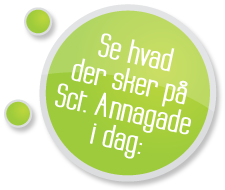
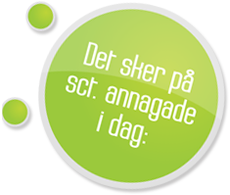
Styling of calendar and added custom markup

Changed region(s): [[0.0, 0.0263, 0.9956, 0.9737], [0.0933, 0.0, 0.2489, 0.2105], [0.2489, 0.7105, 0.28, 0.7632]]

diff --git a/sites/all/themes/sctannagade/css/kalender.css b/sites/all/themes/sctannagade/css/kalender.css
@@ -96,25 +96,31 @@ h3 .date-display-separator
 	font-size: 13px;
 	color: #FFF;
 	font-weight: bold;
+	position: relative;
 }
 
-.panel-display .panel-pane .view-Kalender .view-header .current-date
+.panel-display .panel-pane .view-Kalender .view-header .current-date a,
+.panel-display .panel-pane .view-Kalender .view-header .current-date a:hover
+{
+	color: #fff;
+}
+
+.panel-display .panel-pane .view-Kalender .view-header .splash
 {
 	background:transparent url(../images/today_big.png) no-repeat scroll right top;
-	padding-left: 15px;
-	margin-left: -15px;
 	display: block;
 	position: absolute;
-	z-index: 1;
-	height: 225px;
-	width: 550px;
+	height: 195px;
+	width: 230px;
+	top: 4px;
+	right: 5px;
 }
 
 .panel-display .panel-pane .view-Kalender .view-header .kugler
 {
 	background: url("../images/kugler.png") no-repeat scroll left center transparent;
 	margin-top: 2px;
-	margin-left: 75px;
+	margin-left: 5px;
 	padding-top: 6px;
 	padding-left: 7px;
 	position: absolute;

diff --git a/sites/all/themes/sctannagade/css/design.css b/sites/all/themes/sctannagade/css/design.css
@@ -47,8 +47,8 @@
 
 #block-views-Statement-block_1 .content .view .view-content .views-row .views-field-title
 {
-	height: 50px;
-	padding: 5px 20px 0px 10px;
+	height: 75px;
+	padding: 10px 20px 0px 10px;
 	background: #fff url(../images/back-statement-bottom.png) left top no-repeat;
 	text-align: right;
 	font-family: arial, sans-serif;

diff --git a/sites/all/themes/sctannagade/templates/views/views-view-field--field-cal-date-start-value-1.tpl.php b/sites/all/themes/sctannagade/templates/views/views-view-field--field-cal-date-start-value-1.tpl.php
@@ -25,7 +25,7 @@
 
   if ($date == date('Y-m-d')) {
     print '<div class="felt"><span class="date-display-single">' .date_format_date(new DateTime($date), 'custom', 'l \D. d/m'). '</span>'; 
-    print '<div class="date-display-single"><div class="current-date"></div></div>';    
+    print '<div class="date-display-single"><div class="current-date" id="today"></div></div>';    
     print '<div class="kugler"></div></div>';
   }
   else {
